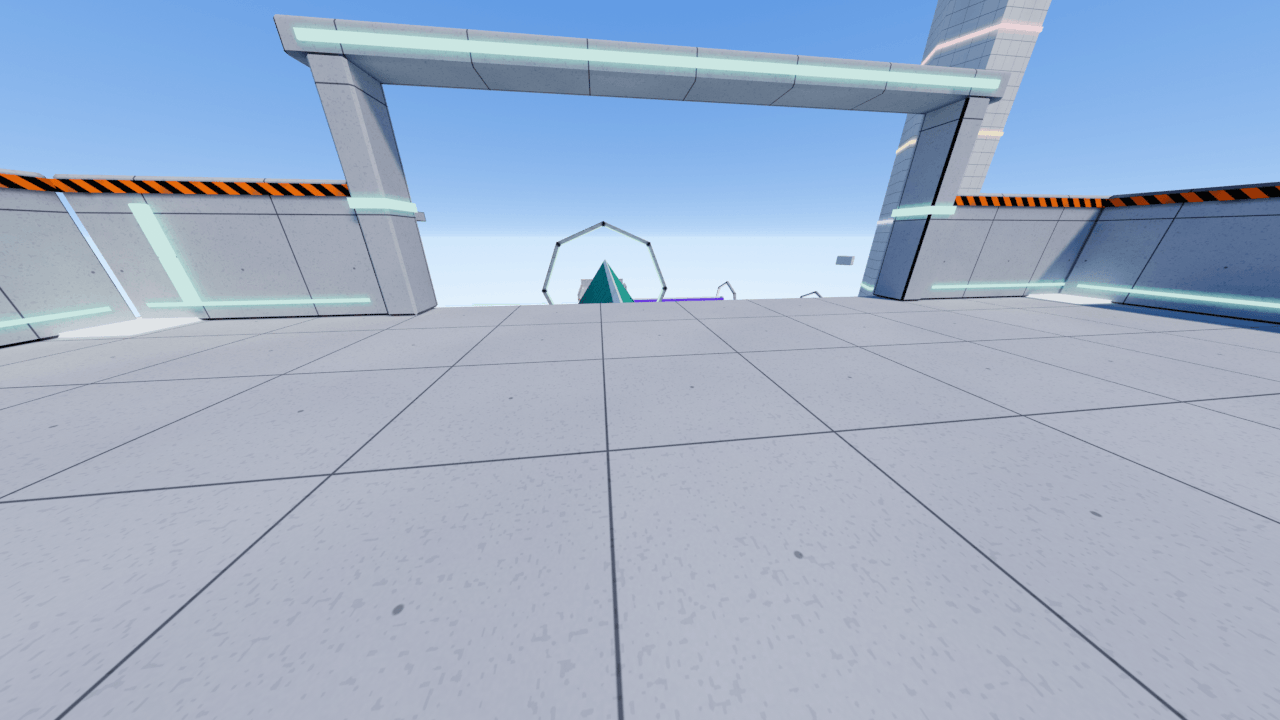
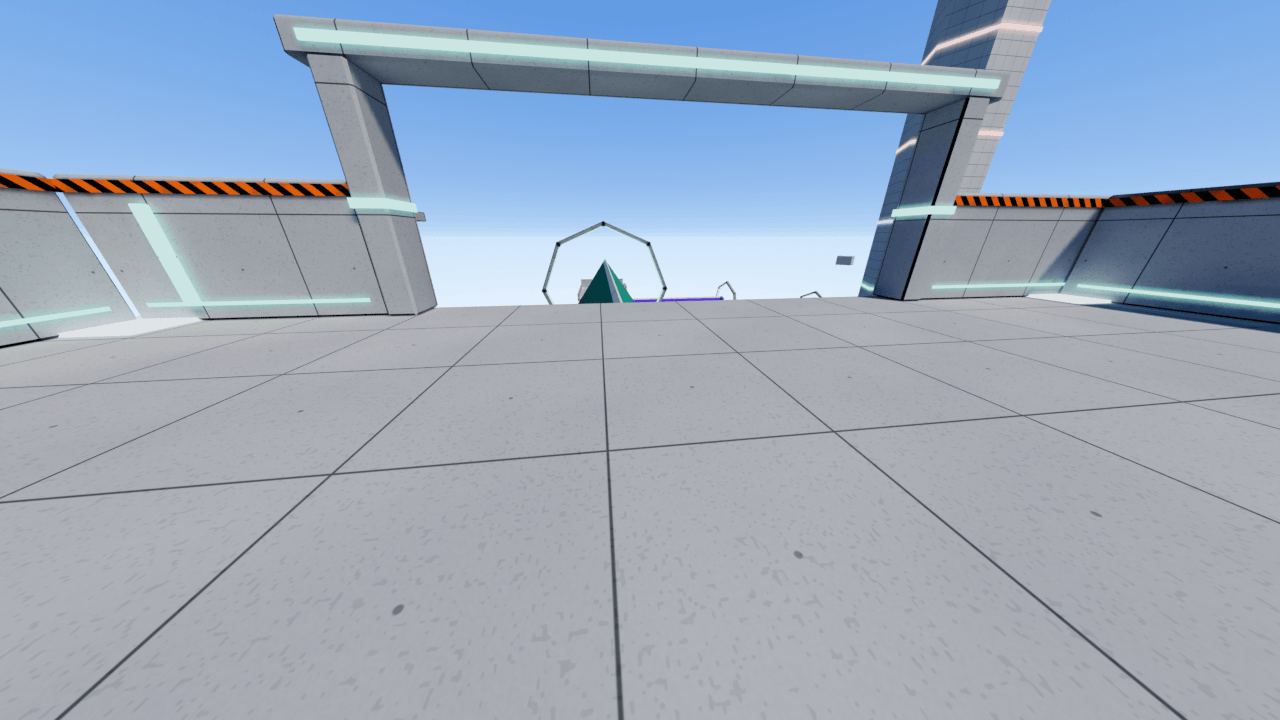
feat(maps): prismline rebaked with the split lightmap and graded; ao applied in the composite (no extra msaa resolve); maps doc covers the new bake and runtime

diff --git a/src/render/Ssao.ts b/src/render/Ssao.ts
@@ -1,6 +1,4 @@
 import {
-  CustomBlending,
-  DstColorFactor,
   LinearFilter,
   Matrix4,
   NoBlending,
@@ -10,9 +8,9 @@ import {
   Vector2,
   Vector4,
   WebGLRenderTarget,
-  ZeroFactor,
   type PerspectiveCamera,
   type DepthTexture,
+  type Texture,
   type WebGLRenderer,
 } from 'three';
 import { FullScreenQuad } from 'three/examples/jsm/postprocessing/Pass.js';
@@ -122,31 +120,20 @@ void main() {
 }
 `;
 
-const APPLY_FRAGMENT = /* glsl */ `
-uniform sampler2D tAo;
-varying vec2 vUv;
-void main() {
-  float ao = texture2D(tAo, vUv).r;
-  gl_FragColor = vec4(ao, ao, ao, 1.0);
-}
-`;
-
 export interface SsaoOptions {
   radius?: number;
   intensity?: number;
 }
 
 /**
- * screen space ao for the world pass. it reads the resolved depth of the scene
- * target and multiplies the result into its color before the viewmodel is
- * drawn, so the gun and arms never get world occlusion.
+ * screen space ao for the world pass, from the resolved depth of the scene
+ * target. RenderPipeline applies it in the composite, never on the viewmodel.
  */
 export class Ssao {
   private readonly aoTarget: WebGLRenderTarget;
   private readonly blurTarget: WebGLRenderTarget;
   private readonly aoMaterial: ShaderMaterial;
   private readonly blurMaterial: ShaderMaterial;
-  private readonly applyMaterial: ShaderMaterial;
   private readonly quad = new FullScreenQuad();
   private readonly invProjection = new Matrix4();
   public radius: number;
@@ -198,18 +185,6 @@ export class Ssao {
       depthWrite: false,
       blending: NoBlending,
     });
-    this.applyMaterial = new ShaderMaterial({
-      name: 'SsaoApply',
-      vertexShader: VERTEX,
-      fragmentShader: APPLY_FRAGMENT,
-      uniforms: { tAo: { value: null } },
-      depthTest: false,
-      depthWrite: false,
-      transparent: true,
-      blending: CustomBlending,
-      blendSrc: DstColorFactor,
-      blendDst: ZeroFactor,
-    });
   }
 
   setSize(width: number, height: number): void {
@@ -219,8 +194,12 @@ export class Ssao {
     this.blurTarget.setSize(w, h);
   }
 
-  /** computes ao from `depth` and multiplies it into `target`'s color */
-  render(renderer: WebGLRenderer, depth: DepthTexture, target: WebGLRenderTarget, camera: PerspectiveCamera): void {
+  /**
+   * computes ao from the world `depth` (before the viewmodel pass) at half
+   * resolution. the composite multiplies it in and skips viewmodel pixels, so
+   * the msaa scene target never needs an extra pass and resolve for it.
+   */
+  compute(renderer: WebGLRenderer, depth: DepthTexture, camera: PerspectiveCamera, fullWidth: number, fullHeight: number): Texture {
     const w = this.aoTarget.width;
     const h = this.aoTarget.height;
     this.invProjection.copy(camera.projectionMatrixInverse);
@@ -229,7 +208,7 @@ export class Ssao {
     ao.tDepth.value = depth;
     // uv radius per metre at distance 1: 0.5 * projection scale
     (ao.projScale.value as Vector4).set(p[0] * 0.5, p[5] * 0.5, w, h);
-    (ao.depthTexel.value as Vector2).set(2 / target.width, 2 / target.height);
+    (ao.depthTexel.value as Vector2).set(2 / fullWidth, 2 / fullHeight);
     ao.radius.value = this.radius;
     ao.intensity.value = this.intensity;
     this.quad.material = this.aoMaterial;
@@ -249,11 +228,7 @@ export class Ssao {
     (blur.direction.value as Vector2).set(0, 1 / h);
     renderer.setRenderTarget(this.aoTarget);
     this.quad.render(renderer);
-
-    this.applyMaterial.uniforms.tAo.value = this.aoTarget.texture;
-    this.quad.material = this.applyMaterial;
-    renderer.setRenderTarget(target);
-    this.quad.render(renderer);
+    return this.aoTarget.texture;
   }
 
   dispose(): void {
@@ -261,7 +236,6 @@ export class Ssao {
     this.blurTarget.dispose();
     this.aoMaterial.dispose();
     this.blurMaterial.dispose();
-    this.applyMaterial.dispose();
     this.quad.dispose();
   }
 }

diff --git a/src/render/RenderPipeline.ts b/src/render/RenderPipeline.ts
@@ -31,6 +31,9 @@ void main() {
 const COMPOSITE_FRAGMENT = /* glsl */ `
 uniform sampler2D tScene;
 uniform sampler2D tBloom;
+uniform sampler2D tAo;
+uniform sampler2D tDepth;
+uniform float aoOverlay;
 uniform float bloomStrength;
 uniform float vignette;
 uniform vec2 resolution;
@@ -40,6 +43,12 @@ ${GRADE_GLSL}
 
 vec3 graded(vec2 uv) {
   vec3 c = texture2D(tScene, uv).rgb;
+#ifdef USE_AO
+  // after the viewmodel pass the depth buffer only holds the gun and arms
+  // (it was cleared to far), so anything nearer than far keeps its own light
+  float isOverlay = aoOverlay > 0.5 && texture2D(tDepth, uv).x < 0.99999 ? 1.0 : 0.0;
+  c *= mix(texture2D(tAo, uv).r, 1.0, isOverlay);
+#endif
 #ifdef USE_BLOOM
   // the chain sums every mip, strength already folds in 1 / mip count
   c += texture2D(tBloom, uv).rgb * bloomStrength;
@@ -128,6 +137,9 @@ export class RenderPipeline {
       uniforms: {
         tScene: { value: null },
         tBloom: { value: null },
+        tAo: { value: null },
+        tDepth: { value: null },
+        aoOverlay: { value: 0 },
         bloomStrength: { value: 0 },
         vignette: { value: 0 },
         resolution: { value: new Vector2(1, 1) },
@@ -158,6 +170,8 @@ export class RenderPipeline {
     this.preset = preset;
     if (preset.bloom) this.composite.defines.USE_BLOOM = '';
     else delete this.composite.defines.USE_BLOOM;
+    if (preset.ao) this.composite.defines.USE_AO = '';
+    else delete this.composite.defines.USE_AO;
     this.composite.needsUpdate = true;
     if (rebuild) this.rebuildTarget();
   }
@@ -198,8 +212,9 @@ export class RenderPipeline {
     renderer.setRenderTarget(target);
     renderer.clear(true, true, false);
     renderer.render(world, worldCamera);
+    let ao: Texture | null = null;
     if (this.preset.ao && target.depthTexture) {
-      this.ssao.render(renderer, target.depthTexture, target, worldCamera);
+      ao = this.ssao.compute(renderer, target.depthTexture, worldCamera, this.width, this.height);
     }
     if (overlay && overlayCamera) {
       renderer.setRenderTarget(target);
@@ -213,6 +228,9 @@ export class RenderPipeline {
     const u = this.composite.uniforms;
     u.tScene.value = target.texture;
     u.tBloom.value = bloom;
+    u.tAo.value = ao;
+    u.tDepth.value = target.depthTexture;
+    u.aoOverlay.value = overlay && overlayCamera ? 1 : 0;
     u.bloomStrength.value = bloom ? this.grade.bloom / this.bloom.getLevelCount() : 0;
     u.vignette.value = this.grade.vignette;
     u.fxaa.value = this.preset.fxaa ? 1 : 0;

diff --git a/tools/blender/maps/build_surf_prismline.py b/tools/blender/maps/build_surf_prismline.py
@@ -50,6 +50,7 @@ ENV = {
     "bake_ground_scale": 0.7,
     "hemi": {"sky": "#bcd8f5", "ground": "#d9dfe6", "intensity": 2.2},
     "fog": {"color": "#d3e8fb", "near": 140.0, "far": 950.0},
+    "grade": {"exposure": 0.74, "contrast": 1.16, "saturation": 1.1, "temperature": 0.03, "vignette": 0.2, "bloom": 0.08},
     "exposure": 1.0,
 }
 

diff --git a/docs/assets/maps.md b/docs/assets/maps.md
@@ -60,22 +60,43 @@ A build writes scratch files to `.blender-tmp/maps/<id>/` and then
   foot to the ridge of each face so the ridge band always sits on the ridge.
   UV1 is a lightmap atlas: smart project, islands scaled by a per face texel
   weight (walkable tops 1.0, far cliffs 0.0015, faces under lava almost 0), then packed.
-- **Lightmap.** Cycles on the GPU bakes diffuse direct + indirect light with no
-  albedo (384 samples), OpenImageDenoise cleans it through the compositor, the
-  chart borders are dilated, and the result is sRGB encoded as `light / scale`.
-  Emissive surfaces (lava, glow strips, lamps) light their surroundings in the bake.
+- **Lightmap.** Cycles on the GPU bakes three passes into one atlas, all with no
+  albedo: the full diffuse light (direct + indirect, 384 samples), the sun's
+  direct light alone (sky and emission switched off) and a shadow pass for the
+  sun's visibility. The shipped `lightmap.webp` holds full minus sun direct in
+  rgb (sky light, emissive light and every bounce, the sun's included) and the
+  sun's visibility in alpha. OpenImageDenoise cleans the rgb through the
+  compositor, chart borders are dilated and rgb is sRGB encoded as
+  `light / scale`. The bake sky is scaled by `bake_sky_scale` (default 0.55)
+  so the sun reads about 3:1 over the sky; it used to light as strongly as
+  the sun, which washed every shadow out. A plain full bake is still written
+  (`lightmap_full.png`, not shipped) for the preview renders.
 - **Runtime.** `src/world/MapEnvironment.ts` loads the lightmaps listed in
   `meta.environment.lightmaps` (`texture.channel = 1`, GLTFLoader names
-  TEXCOORD_1 `uv1`) and swaps every mesh that has `uv1` to
-  `MeshBasicMaterial(map, color, lightMap)`, so the baked sun is not lit a
-  second time. `lightMapIntensity` is `pi * scale` (Cycles bakes irradiance / pi).
-  Meshes without `uv1` (emissive trims, lava) keep MeshStandardMaterial. A
-  hemisphere light and a directional sun matching the baked sun light players
-  and weapons; the sun intensity equals the Blender sun strength, so a player
-  model and the floor under it get the same sunlight.
-- **Sky.** A shader dome (gradient, sun disc and glow, drifting fbm clouds) in
-  display colours, so the horizon matches the fog colour exactly. The same
-  gradient and sun formula drive the Blender preview world.
+  TEXCOORD_1 `uv1`) through ImageBitmap with `premultiplyAlpha: 'none'`, so the
+  alpha channel never eats the rgb. With `lightmapMode: "indirect"` every mesh
+  with `uv1` gets a lit material (`src/render/worldMaterials.ts`): the live sun
+  is multiplied by the baked visibility, so it keeps the baked soft shadows but
+  gains normal maps (generated from the albedo on the GPU), specular and live
+  player shadows; the baked rgb replaces the sky's diffuse light, and sky
+  reflections are occluded where the bake saw less sky. Low uses a Lambert
+  surface, medium and high a standard one. `lightMapIntensity` is
+  `pi * scale` (Cycles bakes irradiance / pi) and `indirectIntensity` scales
+  the baked light at runtime. Normals are rebuilt from the triangle winding at
+  load, because some packed faces (the floor slabs) carry normals pointing
+  against their winding; the old unlit materials never read normals. Maps
+  without `lightmapMode` keep the v2 path, `MeshBasicMaterial(map, color,
+  lightMap)`. Meshes without `uv1` (emissive trims, lava) keep
+  MeshStandardMaterial. Players and weapons are lit by the same sun and by a
+  PMREM capture of the sky dome (`envIntensity`).
+- **Sky.** A shader dome (gradient, sun disc and glow, drifting self shadowed
+  fbm clouds) in linear hdr. Its colour keys are the meta's display colours run
+  back through the map's grade (`src/render/grade.ts`), so after tone mapping
+  the horizon matches the fog colour exactly and the sky shows as authored. The
+  sun disc is far above 1 so bloom turns it into glare.
+- **Grade.** `meta.environment.grade` (exposure, contrast, saturation,
+  temperature, tint, vignette, bloom, bloomThreshold) drives the composite pass
+  in `src/render/RenderPipeline.ts`; missing fields use the house look.
 - **Previews.** The docs renders swap every material for an emission shader
   that computes albedo x baked light, then the three.js ACES filmic curve with
   the map exposure, then linear fog in display space. They show what the game
@@ -102,7 +123,11 @@ A build writes scratch files to `.blender-tmp/maps/<id>/` and then
     "fog": { "color": "#e9946a", "near": 55, "far": 460 },
     "exposure": 1.12,
     "lightmaps": [{ "path": "/maps/bhop_emberdrift/lightmap.webp" }],
-    "lightMapIntensity": 11.0
+    "lightMapIntensity": 11.0,
+    "lightmapMode": "indirect",
+    "indirectIntensity": 1.0,
+    "envIntensity": 1.0,
+    "grade": { "exposure": 1.05, "contrast": 1.1, "saturation": 1.06, "vignette": 0.26, "bloom": 0.09 }
   }
 }
 ```
